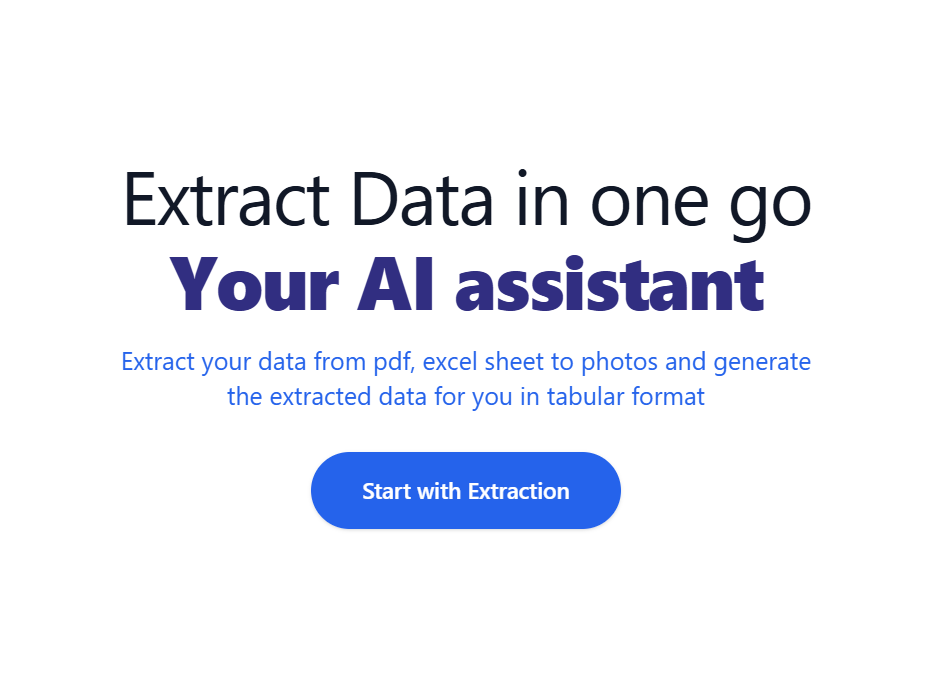
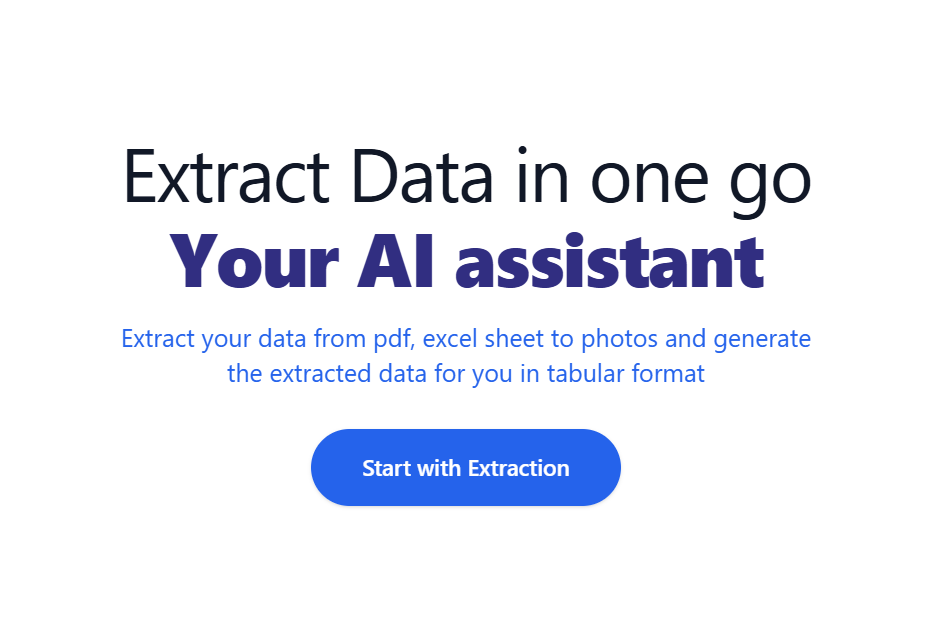
.

diff --git a/shweta-behera/src/components/Projects.jsx b/shweta-behera/src/components/Projects.jsx
@@ -9,22 +9,22 @@ const works = [
     projectLink: ''
   },
   {
-    imgSrc: '/photos/p1.png',
+    imgSrc: '/photos/p2.png',
     title: 'Personal Portfolio',
     desc: 'This is my portfolio which I created using react, I used my favourite theme and the things I like which makes it more special. Currently improving this every other day.',
-    projectLink: ''
+    projectLink: 'https://shwetabehera.vercel.app/'
   },
   {
-    imgSrc: '/photos/p1.png',
+    imgSrc: '/photos/p3.png',
     title: 'Endoscope enquiry management system',
     desc: 'Developed a enquiry management system to keep records of the data of customers and their purchases in relational databases.',
     projectLink: ''
   },
   {
-    imgSrc: '/photos/p1.png',
+    imgSrc: '/photos/p4.png',
     title: 'Space sudoku game',
     desc: 'Created a sudoku game based on solar system planets.',
-    projectLink: ''
+    projectLink: 'https://shwet46.github.io/Sudoku-by-SB/'
   },
 ];
 
